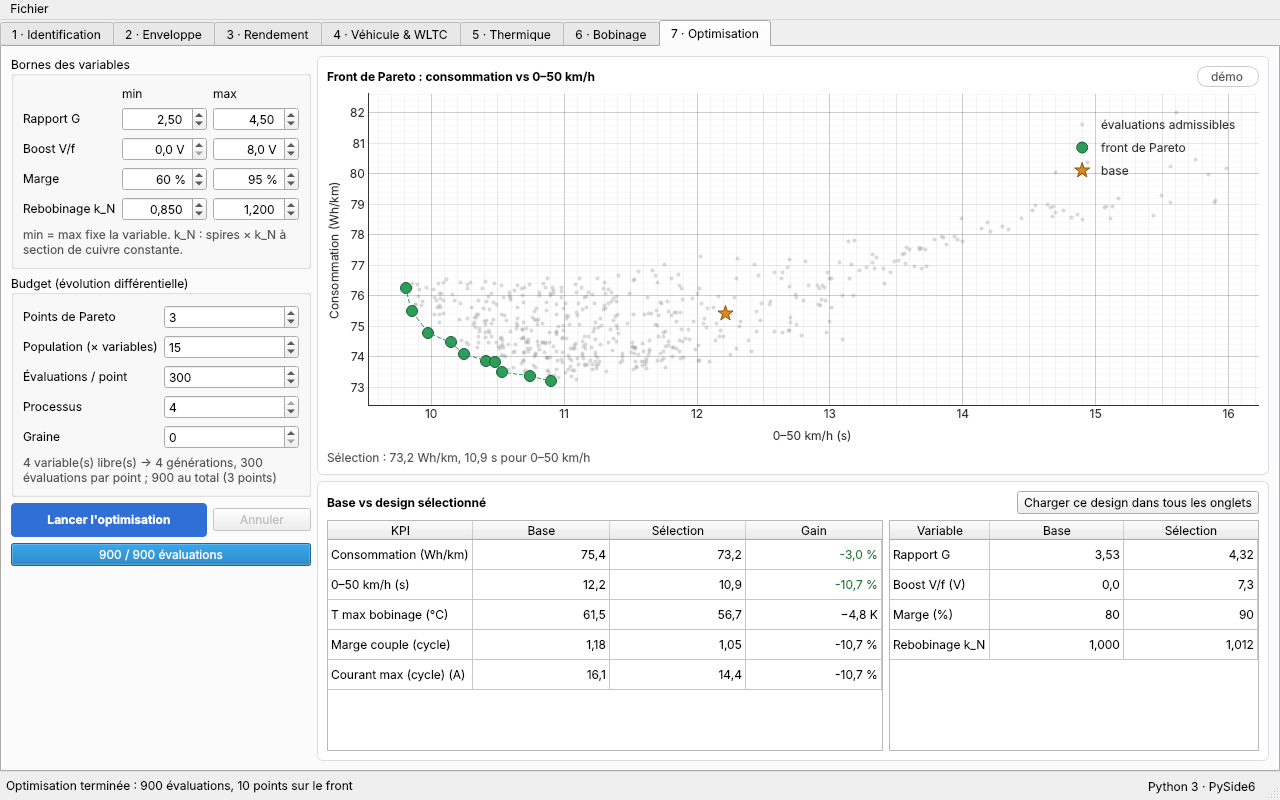
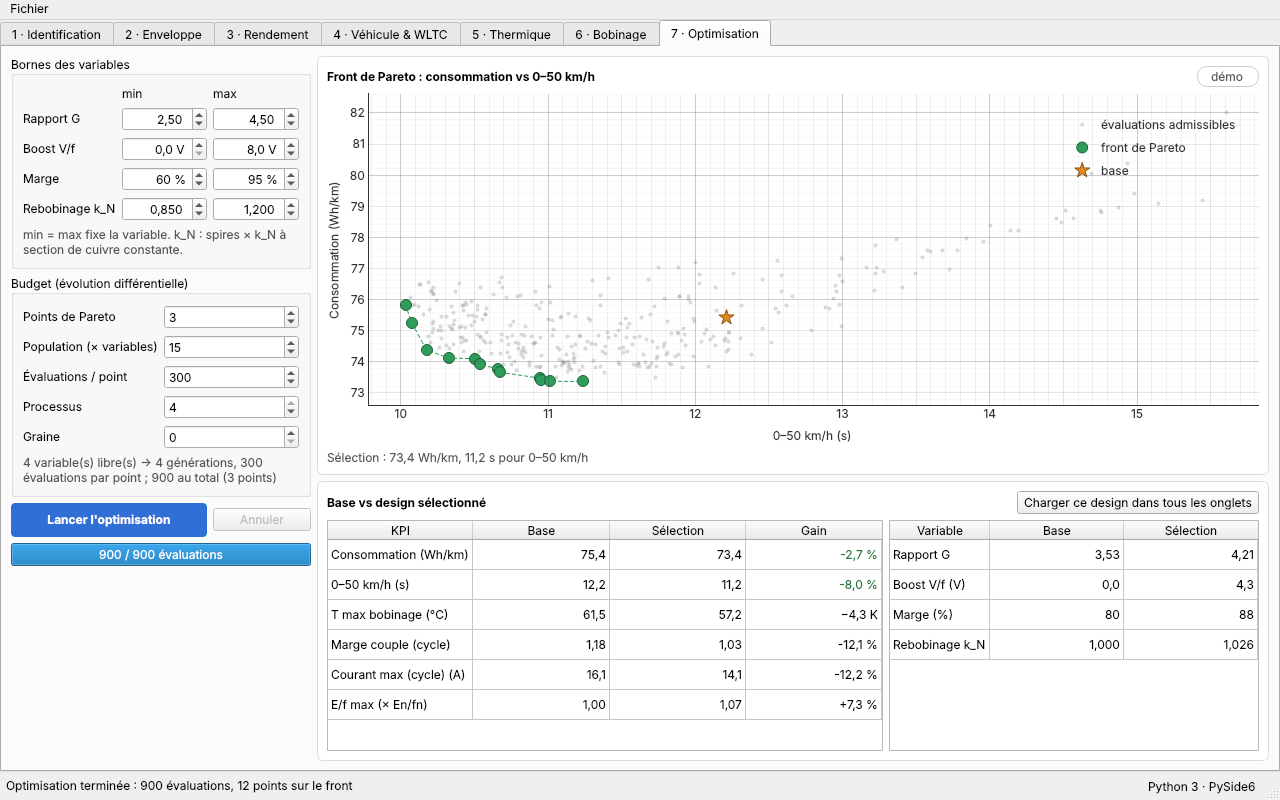
New tab 7 optimum under the E/f constraint: demo script, README, tab 2/7 captures
Re-run along the demo click path (démo identification, 3 points × 300
evaluations, seed 0). Minimum-consumption design: G 4,21, boost 4,3 V, margin
0,88, k_N 1,026 → 73,4 Wh/km (−2,7 %), 0–50 km/h 11,2 s (−8,0 %), E/f max
1,07 × En/fn; before the constraint: 7,3 V boost, 73,2 Wh/km, 10,9 s, 1,16 × En/fn.

- docs/demo_script.md: new table, constraint list, the E/f warning of tab 2 after
  loading the design (1,07 × En/fn) and its new tiles; test count 554.
- README: demo optimum table in the tab 7 section.
- docs/images/07_optimisation.png recaptured; new 02b_enveloppe_design.png
  (tab 2 after loading the design, with the warning), also in the user guide.
- Tab 7 shows E/f with 2 decimals; the rewound motor label uses a decimal comma.

Claude-Session: https://claude.ai/code/session_0145D8UjuNLDpEiuoMGzf988

diff --git a/src/evlab/core/optimise.py b/src/evlab/core/optimise.py
@@ -109,7 +109,7 @@ def rewound(m: MotorParams, k_n: float) -> MotorParams:
     if not math.isfinite(k_n) or k_n <= 0:
         raise ValueError(f"k_n must be > 0, got {k_n!r}")
     k2 = k_n * k_n
-    src = m.source if k_n == 1.0 else f"{m.source} · rebobiné k_N = {k_n:.3f}"
+    src = m.source if k_n == 1.0 else f"{m.source} · rebobiné k_N = {k_n:.3f}".replace(".", ",")  # label, decimal comma
     return replace(m, r1=m.r1 * k2, r2p=m.r2p * k2, x_leak=m.x_leak * k2, x_m=m.x_m * k2,
                    r_fe=m.r_fe * k2, source=src)
 

diff --git a/src/evlab/gui/tab_optimisation.py b/src/evlab/gui/tab_optimisation.py
@@ -54,7 +54,7 @@ KPI_ROWS = (  # key, label, unit, converter for display
     ("t_winding_max", "T max bobinage", "°C", lambda v: fr_fixed(v - T_ZERO_C, 1)),
     ("min_margin", "Marge couple (cycle)", "", lambda v: fr(v)),
     ("i_cycle_max", "Courant max (cycle)", "A", lambda v: fr(v)),
-    ("flux_max", "E/f max (× En/fn)", "", lambda v: fr(v)),
+    ("flux_max", "E/f max (× En/fn)", "", lambda v: fr_fixed(v, 2)),
 )
 
 

diff --git a/tests/test_optimise.py b/tests/test_optimise.py
@@ -29,6 +29,7 @@ def test_rewinding_scales_every_impedance(problem):
         assert getattr(r, n) == pytest.approx(1.44 * getattr(m, n))
     assert r.v_phase == m.v_phase and r.p_mech == m.p_mech
     assert op.rewound(m, 1.0) == m
+    assert r.source.endswith("rebobiné k_N = 1,200")  # displayed label: decimal comma
 
 
 def test_evaluation_uses_the_tested_models(problem):

diff --git a/docs/demo_script.md b/docs/demo_script.md
@@ -115,33 +115,39 @@ onduleur ; C_w, C_s, R_ws, R_sa ; véhicule ; cycle).
 ## 4:20 – 5:00 · Onglet 7 — Optimisation
 
 - **Régler** *Points de Pareto* = 3, *Évaluations / point* = 300, *Processus* = 4
-  (900 évaluations, ≈ 15 s), puis *Lancer l'optimisation*.
+  (900 évaluations, ≈ 17 s), puis *Lancer l'optimisation*.
 - **Dire** : « Démo rapide ; calcul complet : 1500 évaluations par point »
   (réglage par défaut : 6 points × 1500 = 9000 évaluations, environ 3 min sur
   4 cœurs). Les chiffres ci-dessous sont ceux de la démo rapide ; le calcul
   complet peut trouver un front un peu meilleur.
 - **Dire** : « Quatre variables : rapport G, boost V/f, marge de défluxage et
   rebobinage k_N. Deux objectifs : Wh/km et 0–50 km/h. Les contraintes sont
-  l'enveloppe, T bobinage ≤ classe − 20 K et le courant onduleur. Aucune
+  l'enveloppe, T bobinage ≤ classe − 20 K, le courant onduleur et le flux
+  d'entrefer E/f ≤ 1,10 × En/fn (circuit magnétique linéaire, A33). Aucune
   physique nouvelle ici : chaque évaluation enchaîne les modèles déjà testés. »
 - **Cliquer** le point le plus à gauche du front (consommation minimale) et
   montrer le tableau :
 
   | | Base | Design | Gain |
   |---|---|---|---|
-  | Consommation | 75,4 Wh/km | 73,2 Wh/km | −3,0 % |
-  | 0–50 km/h | 12,2 s | 10,9 s | −10,7 % |
-  | T max bobinage | 61,5 °C | 56,7 °C | −4,8 K |
-  | G / boost / marge / k_N | 3,53 / 0 V / 0,80 / 1,00 | 4,32 / 7,3 V / 0,90 / 1,01 | |
+  | Consommation | 75,4 Wh/km | 73,4 Wh/km | −2,7 % |
+  | 0–50 km/h | 12,2 s | 11,2 s | −8,0 % |
+  | T max bobinage | 61,5 °C | 57,2 °C | −4,3 K |
+  | E/f max (× En/fn) | 1,00 | 1,07 | +7,3 % |
+  | G / boost / marge / k_N | 3,53 / 0 V / 0,80 / 1,000 | 4,21 / 4,3 V / 0,88 / 1,026 | |
 
-- **Dire** : « Ce design domine la base : il consomme moins et accélère mieux. »
+- **Dire** : « Ce design domine la base : il consomme moins et accélère mieux.
+  Sans la contrainte de flux, l'optimiseur prenait 7,3 V de boost (10,9 s) :
+  1,16 × En/fn à faible charge, hors du domaine du modèle linéaire. »
   **Cliquer** *Charger ce design dans tous les onglets* : les onglets 2 à 5 se
   recalculent avec ce moteur. À l'onglet 2, montrer l'avertissement rouge :
-  « Boost : V/f atteint 4,14 × Vn/fn à 0,500 Hz — surexcitation, saturation non
-  modélisée (circuit magnétique linéaire, A33) ». **Dire** : « Le gain à basse
-  vitesse de ce design est optimiste : le modèle ne sature pas. » Nouvelles
-  tuiles : base 1245 tr/min, fin de puissance constante 1935 tr/min, P max
-  8,98 kW.
+  « Boost : E/f atteint 1,07 × En/fn à 0 tr/min — surexcitation, saturation non
+  modélisée (circuit magnétique linéaire, A33) » (`02b_enveloppe_design.png`).
+  **Dire** : « E/f, c'est le flux d'entrefer : V moins la chute R1·I1. 7 %
+  au-dessus du nominal, sous la limite de 10 % imposée à l'optimisation, mais le
+  modèle ne sature pas : le gain à basse vitesse reste un peu optimiste. »
+  Nouvelles tuiles : base 1238 tr/min, fin de puissance constante 1808 tr/min,
+  P max 8,90 kW.
 - **Conclure** : *Fichier → Exporter PDF…* : rapport de 2 à 3 pages, sections 1
   à 6, hypothèses, et pied de page listant ce qui est démo.
 
@@ -149,4 +155,4 @@ onduleur ; C_w, C_s, R_ws, R_sa ; véhicule ; cycle).
 
 **Si une question porte sur la validation** : renvoyer au tableau « What is
 validated / what is démo » du README (circuit TD5, facteurs de bobinage,
-bilans d'énergie, comparaison avec un balayage exhaustif à 1 % près, 546 tests).
+bilans d'énergie, comparaison avec un balayage exhaustif à 1 % près, 554 tests).

diff --git a/README.md b/README.md
@@ -291,6 +291,20 @@ max air-gap flux E/f over the envelope ≤ 1,10·En/fn (linear magnetic circuit,
 Fixed budget: 1500 evaluations per Pareto point whatever the number of free
 variables (generations = budget / (population × variables) − 1, no early stop).
 
+Demo run (tab 1 démo identification, quick budget 3 points × 300 evaluations,
+seed 0), minimum-consumption point of the front against the base design:
+
+| | Base | Optimum |
+|---|---|---|
+| G / boost / margin / k_N | 3,53 / 0 V / 0,80 / 1,000 | 4,21 / 4,3 V / 0,88 / 1,026 |
+| Wh/km | 75,4 | 73,4 (−2,7 %) |
+| 0–50 km/h | 12,2 s | 11,2 s (−8,0 %) |
+| T max winding | 61,5 °C | 57,2 °C |
+| E/f max | 1,00 × En/fn | 1,07 × En/fn |
+
+Before the E/f constraint the same run chose a 7,3 V boost (G = 4,32, 73,2 Wh/km,
+10,9 s), i.e. 1,16 × En/fn at light load: the constraint costs 0,2 Wh/km and 0,3 s.
+
 The tab takes the bounds of each variable (min = max fixes it) and the budget,
 runs in a worker with progress and cancel, plots the front with the baseline
 and every admissible evaluation, and shows baseline vs the selected design with

diff --git a/docs/user_guide.md b/docs/user_guide.md
@@ -76,6 +76,10 @@ si deux paramètres sont trop corrélés (|ρ| > 0,95).
 
 *Enveloppe du moteur identifié, trois zones.*
 
+![Capture — onglet 2 après chargement du design optimal](images/02b_enveloppe_design.png)
+
+*Après « Charger ce design dans tous les onglets » (onglet 7) : boost 4,3 V, avertissement de flux d'entrefer E/f = 1,07 × En/fn (circuit magnétique linéaire, A33).*
+
 **But** : enveloppe couple–vitesse du moteur sous loi V/f puis défluxage.
 
 **Entrées** (*Variateur*, valeurs démo, A16) : courant max, boost basse vitesse,
